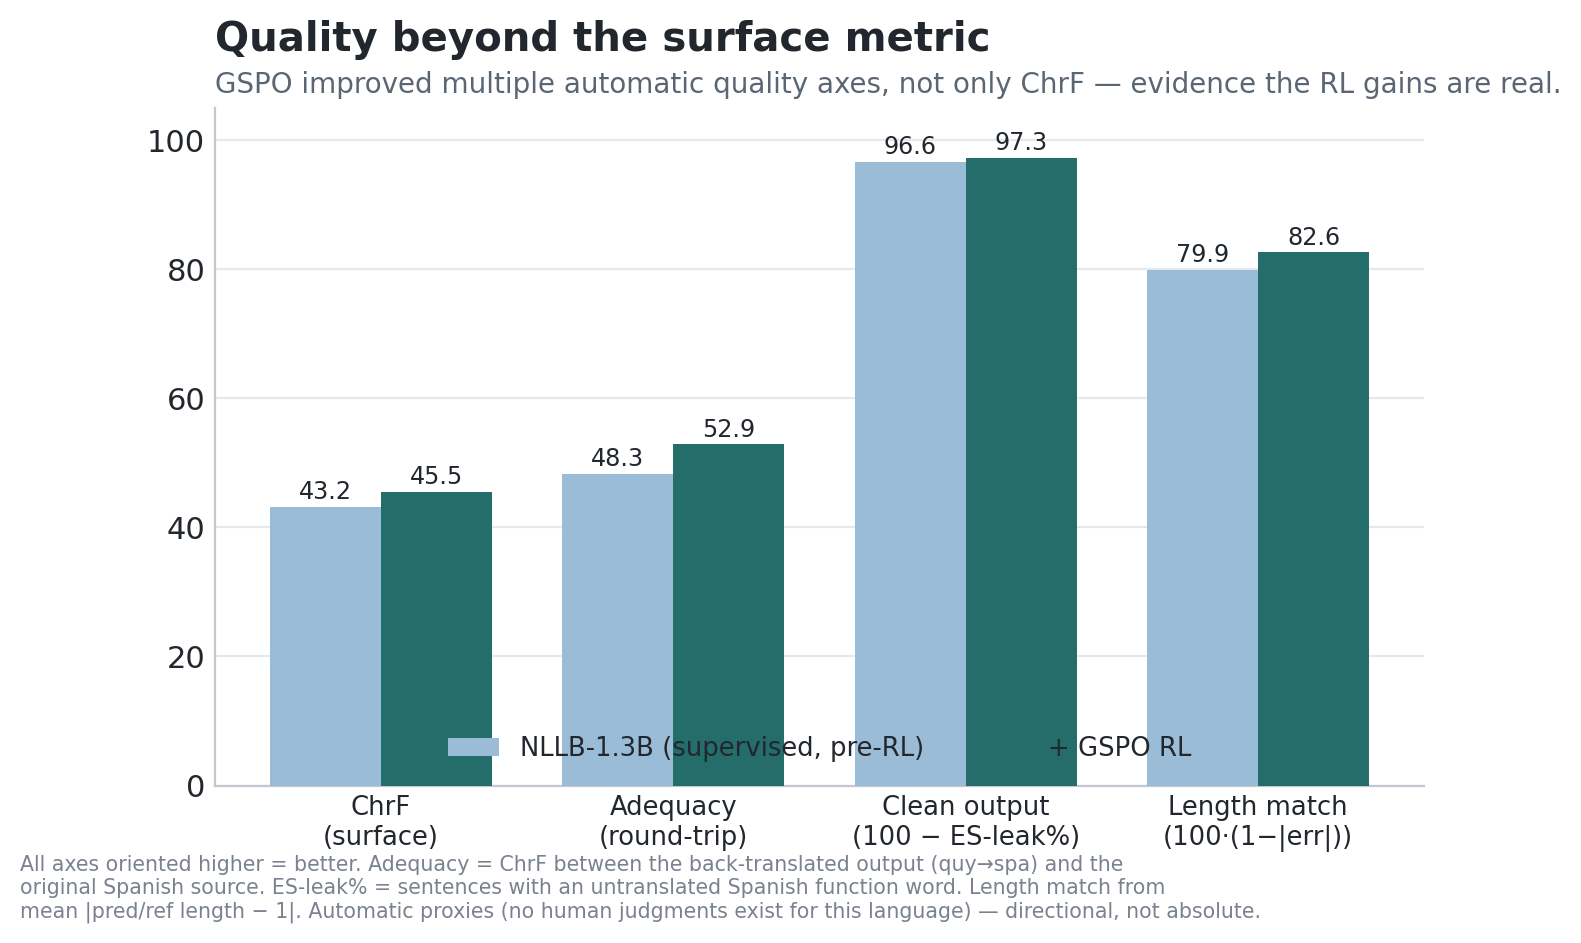
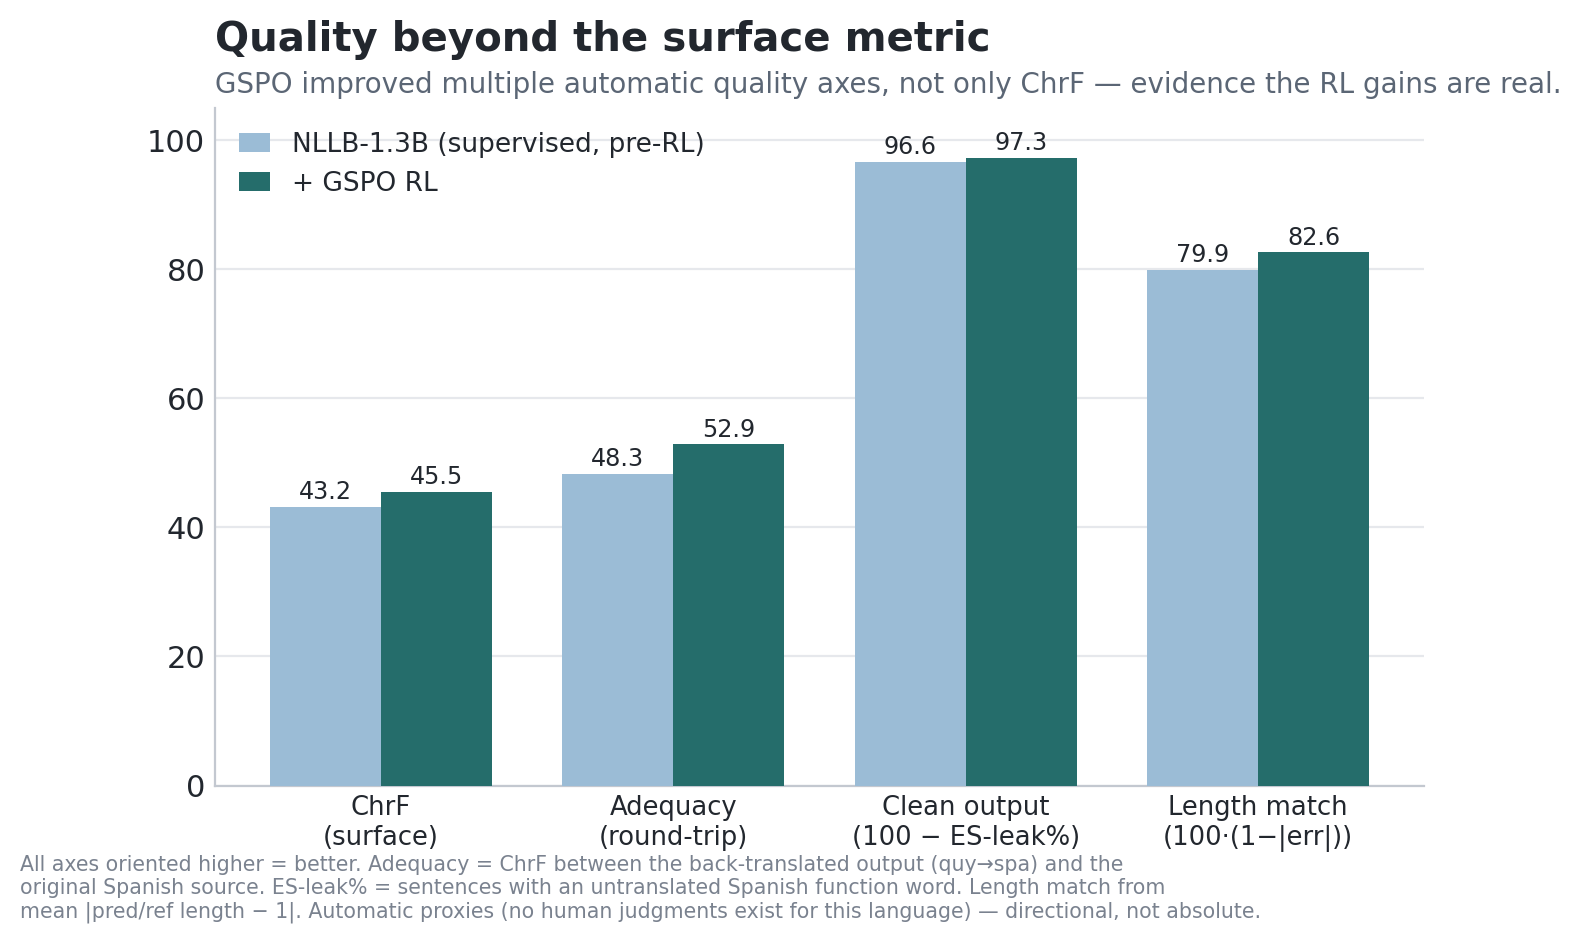
Model card: add standard MT metrics (BLEU/ChrF++/TER) table+figure, fix scorecard legend, add links (GitHub, vLLM fork, merged model, data)

diff --git a/scripts/viz/make_figures.py b/scripts/viz/make_figures.py
@@ -120,7 +120,7 @@ def fig_scorecard():
             ax.text(r.get_x() + r.get_width()/2, r.get_height() + 1.2, f"{r.get_height():.1f}",
                     ha="center", fontsize=8.6, color=INK)
     _clean(ax)
-    ax.legend(frameon=False, fontsize=9.3, loc="lower center", ncol=2, bbox_to_anchor=(0.5, -0.0))
+    ax.legend(frameon=False, fontsize=9.5, loc="upper left", ncol=1, handlelength=1.2)
     _titles(ax, "Quality beyond the surface metric",
             "GSPO improved multiple automatic quality axes, not only ChrF — evidence the RL gains are real.")
     fig.text(0.0, -0.04,
@@ -131,6 +131,41 @@ def fig_scorecard():
     fig.savefig(f"{OUT}/fig3_scorecard.png"); plt.close(fig)
 
 
+def fig_metrics():
+    """Standard MT metrics, supervised vs GSPO. Two panels: higher-better and TER (lower-better)."""
+    import numpy as np
+    nllb = {"ChrF": 43.17, "ChrF++": 37.63, "BLEU": 5.65, "TER": 87.02}
+    gspo = {"ChrF": 45.53, "ChrF++": 39.64, "BLEU": 5.94, "TER": 88.62}
+    fig, (axL, axR) = plt.subplots(1, 2, figsize=(8.8, 4.3), gridspec_kw={"width_ratios": [3, 1.05], "wspace": 0.32})
+    # higher-is-better panel
+    hb = ["ChrF", "ChrF++", "BLEU"]; x = np.arange(len(hb)); w = 0.38
+    axL.bar(x - w/2, [nllb[m] for m in hb], w, color=NLLB, zorder=3, label="NLLB-1.3B (pre-RL)")
+    axL.bar(x + w/2, [gspo[m] for m in hb], w, color=BEST, zorder=3, label="+ GSPO RL")
+    for i, m in enumerate(hb):
+        axL.text(i - w/2, nllb[m] + 0.7, f"{nllb[m]:.1f}", ha="center", fontsize=8.6)
+        axL.text(i + w/2, gspo[m] + 0.7, f"{gspo[m]:.1f}", ha="center", fontsize=8.6)
+    axL.set_xticks(x); axL.set_xticklabels(hb); axL.set_ylim(0, 52)
+    axL.yaxis.grid(True, color=GRID); axL.set_axisbelow(True); _clean(axL)
+    axL.set_xlabel("↑ higher is better", fontsize=9.5, color="#5b6675")
+    axL.legend(frameon=False, fontsize=9.3, loc="upper right")
+    # TER panel (lower better)
+    axR.bar([0 - w/2], [nllb["TER"]], w, color=NLLB, zorder=3)
+    axR.bar([0 + w/2], [gspo["TER"]], w, color=BEST, zorder=3)
+    axR.text(0 - w/2, nllb["TER"] + 1.0, f"{nllb['TER']:.1f}", ha="center", fontsize=8.6)
+    axR.text(0 + w/2, gspo["TER"] + 1.0, f"{gspo['TER']:.1f}", ha="center", fontsize=8.6)
+    axR.set_xticks([0]); axR.set_xticklabels(["TER"]); axR.set_ylim(0, 100)
+    axR.yaxis.grid(True, color=GRID); axR.set_axisbelow(True); _clean(axR)
+    axR.set_xlabel("↓ lower is better", fontsize=9.5, color="#5b6675")
+    _titles(axL, "Standard MT metrics — supervised vs GSPO",
+            "AmericasNLP 2021 spa→quy test · 1003 sentences · single reference")
+    fig.text(0.0, -0.04,
+             "GSPO (reward = ChrF) improves the character-level metrics (ChrF, ChrF++); BLEU is near-floor for both "
+             "(word n-gram matching is\nbrutal for agglutinative Quechua + single reference), and word-level TER does not "
+             "improve — GSPO optimized character overlap, not word edits.",
+             fontsize=7.6, color="#7a828f")
+    fig.savefig(f"{OUT}/fig4_metrics.png"); plt.close(fig)
+
+
 if __name__ == "__main__":
-    fig_comparison(); fig_gspo_curve(); fig_scorecard()
+    fig_comparison(); fig_gspo_curve(); fig_scorecard(); fig_metrics()
     print("wrote figures to", OUT)

diff --git a/docs/cards/README_gspo.md b/docs/cards/README_gspo.md
@@ -86,6 +86,23 @@ quality (not metric-gaming), we score several automatic, speaker-free axes:
 leakage and length error — i.e. the gains are multi-axis quality, not surface gaming.
 (These are automatic proxies; no human judgments exist for this language pair.)
 
+## Standard MT metrics (supervised vs GSPO)
+
+![Standard metrics](figures/fig4_metrics.png)
+
+| Metric | NLLB-1.3B (pre-RL) | + GSPO | direction |
+|---|---:|---:|---|
+| ChrF (w0) | 43.17 | **45.53** | higher better |
+| ChrF++ (w2) | 37.63 | **39.64** | higher better |
+| BLEU | 5.65 | **5.94** | higher better |
+| TER | 87.02 | 88.62 | lower better |
+
+We report all four for transparency. GSPO (reward = ChrF) improves the **character-level**
+metrics (ChrF, ChrF++) and BLEU marginally, but **word-level TER does not improve** — the
+RL optimized character overlap, not word edits. BLEU is near-floor for both systems: word
+n-gram matching is unreliable for an agglutinative language under a single reference, which
+is exactly why we treat **ChrF as the primary metric** here.
+
 ## Training
 
 - **Base / SFT:** NLLB-200-1.3B → LoRA (BSC-2024 recipe, r256/α512) → + ~198k synthetic
@@ -131,3 +148,13 @@ suppression at decode is a small free gain (Ayacucho quy has no glottalization).
   `no_repeat_ngram_size=3` at decode).
 - Dialect: **Ayacucho/Chanka** (`quy`). Not validated for Cuzco (`quz`) or Central varieties.
 - License `cc-by-nc-4.0`; non-commercial, consistent with the underlying data sources.
+
+## Links & resources
+
+- **Code & methodology:** https://github.com/Sekinal/rosettia-chanka
+- **Merged (standalone) model**, no PEFT needed: https://huggingface.co/Thermostatic/rosettia-quy-gspo-nllb13b-merged
+- **NLLB / M2M-100 support for vLLM** (our fork — used for fast GSPO rollouts; NLLB was unsupported upstream): https://github.com/Sekinal/vllm/tree/add-nllb-m2m100-support
+- **Data:** https://huggingface.co/datasets/Thermostatic/rosettia-chanka-data
+- **Qwen-9B sibling model** (the other ensemble member): https://huggingface.co/Thermostatic/rosettia-quy-v30b-9b-merged
+- **Base model:** https://huggingface.co/facebook/nllb-200-1.3B
+- **GSPO:** Zheng et al. 2025, *Group Sequence Policy Optimization* (arXiv:2507.18071)
